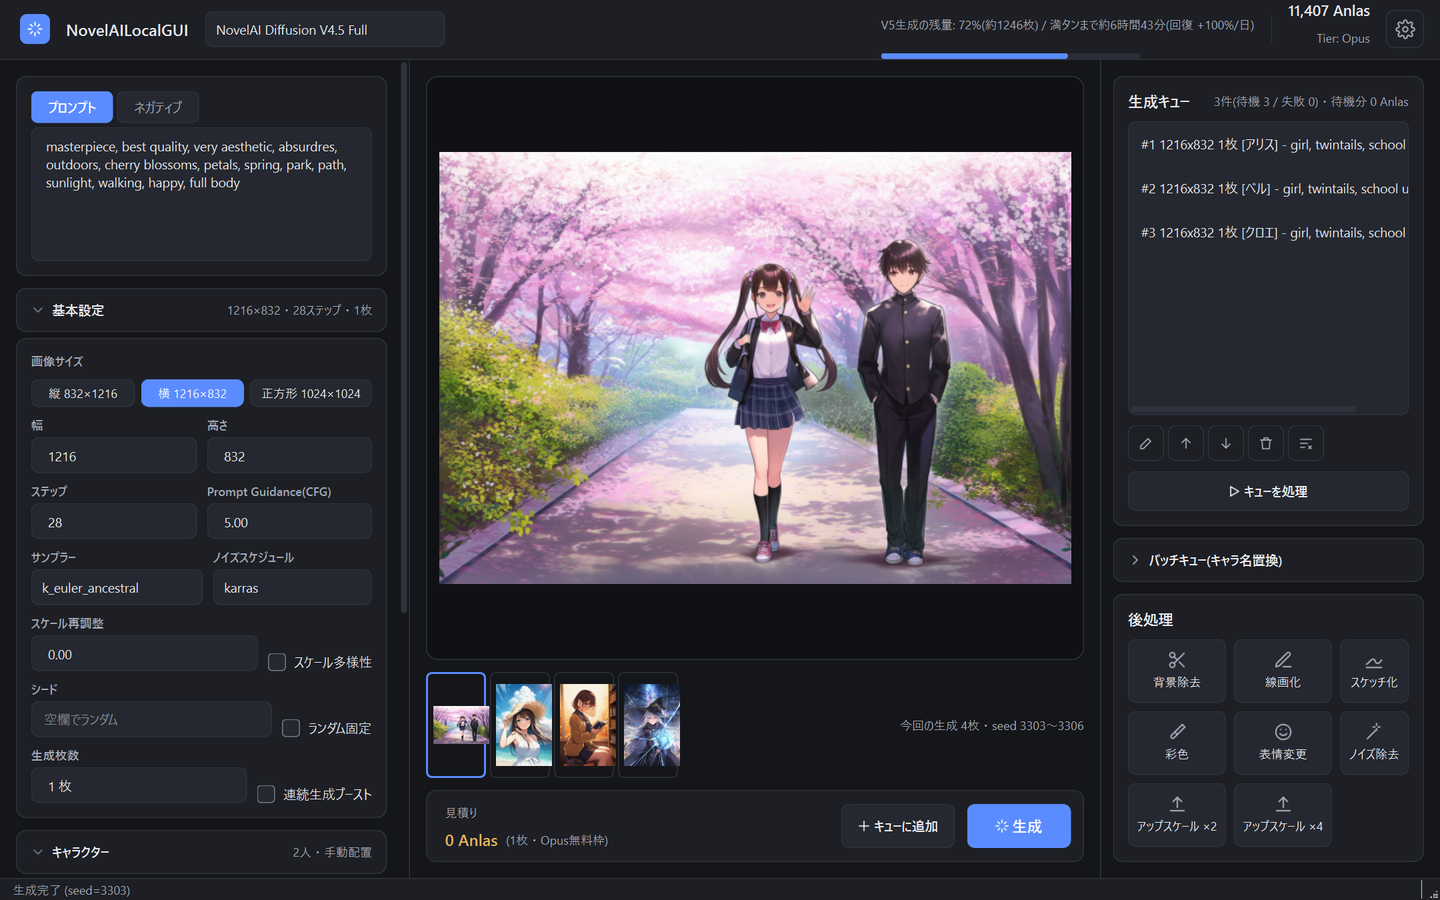
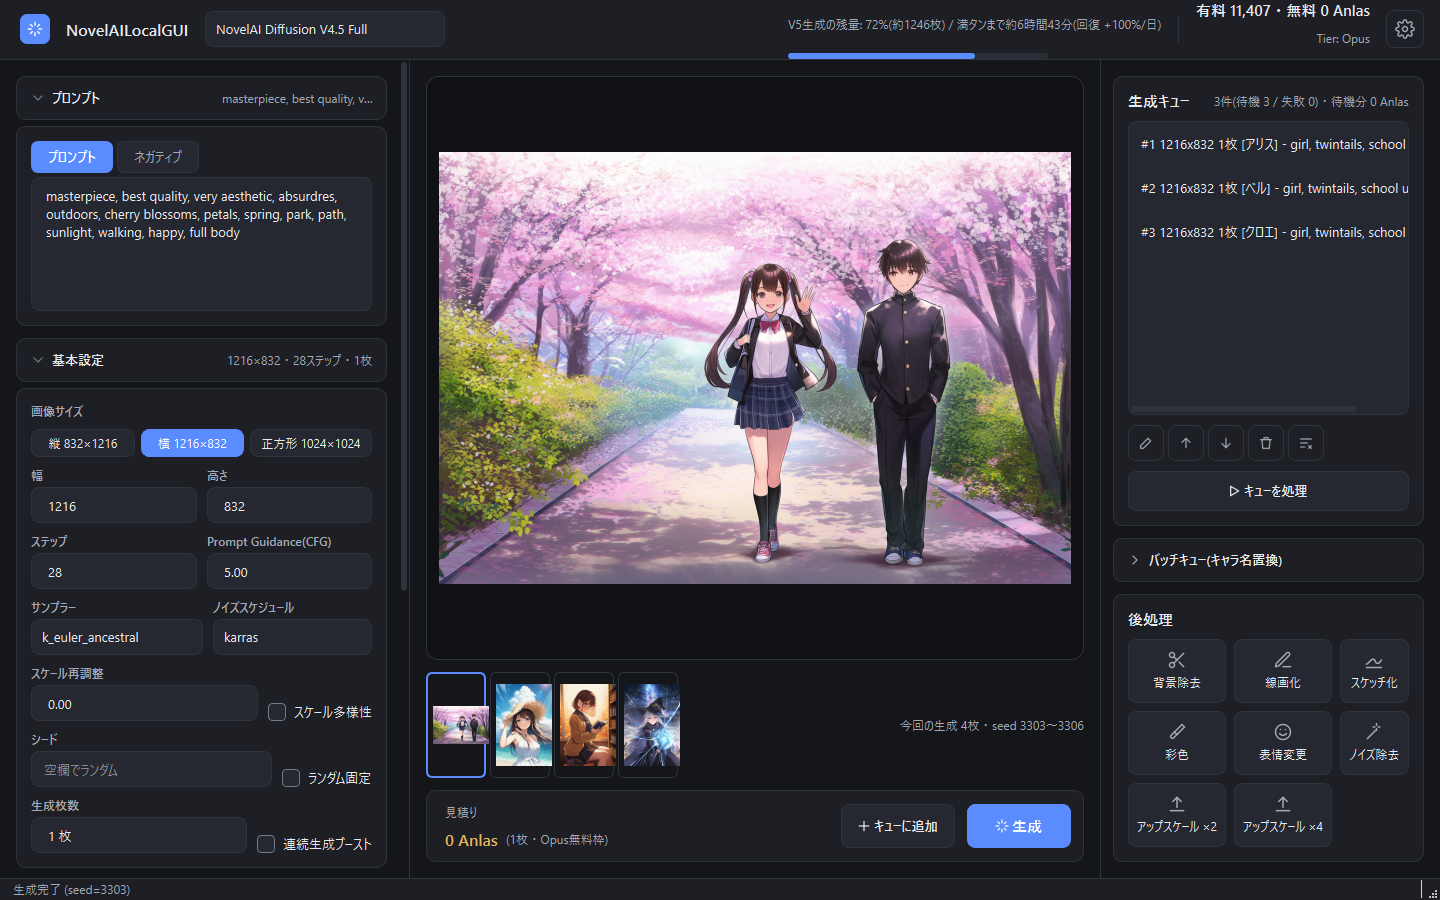
v0.14.1: refreshed screenshots, guide updates and update notice

diff --git a/guide/02-generate.md b/guide/02-generate.md
@@ -5,7 +5,8 @@
 ## 基本の流れ
 
 1. 画面上部でモデルを選びます(NovelAI Diffusion V5 / V4.5 / V4 / V3)。
-2. 左上の「プロンプト」タブにプロンプトを、「ネガティブ」タブにネガティブプロンプトを入力します。
+2. 左上の「プロンプト」の中の「プロンプト」タブにプロンプトを、「ネガティブ」タブにネガティブプロンプトを入力します。
+   見出しの「プロンプト」を押すと、全体を折りたためます(畳んでいても、見出しにプロンプトの冒頭が表示されます)。
 3. 「基本設定」で画像サイズなどを決めます。
 4. 中央下の見積り(消費 Anlas)を確認し、「生成」を押します。
 
@@ -69,6 +70,15 @@ NovelAI Diffusion V5 Full を選ぶと、画面上部のモデルの隣に「生
 Opus で 832×1216 などの標準サイズ(1 リクエストにつき 1 枚)なら、「節約」「通常」のどちらも Anlas は 0 です。
 標準サイズより大きい画像や、同時生成の 2 枚目以降は、「節約」のほうが安くなります。
 画像から設定を読み込むと、生成モード(節約 / 通常)も読み込まれます。
+
+## Anlas 残高の表示
+
+画面上部に、Anlas の残高が「有料」と「無料」に分けて表示されます。マウスを乗せると、合計と次の説明が表示されます。
+
+- 有料: 購入した Anlas(なくなるまで残ります)
+- 無料: サブスクリプションに含まれる Anlas(毎月付与されます)
+
+生成や後処理の間は、左上のロゴと「生成」ボタンのアイコンが回転します。
 
 ## 消費 Anlas の見積り
 
